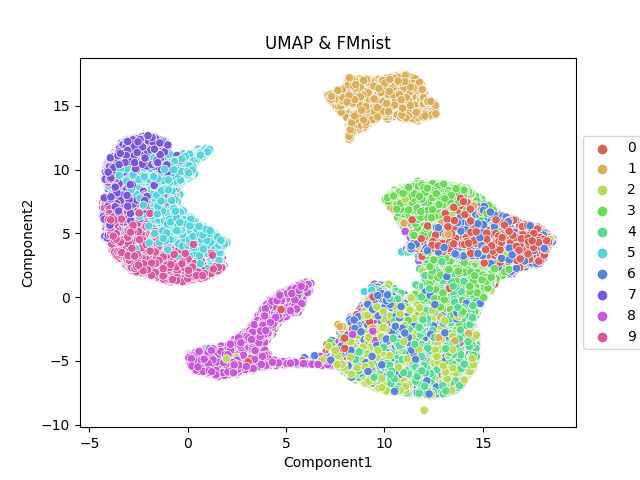
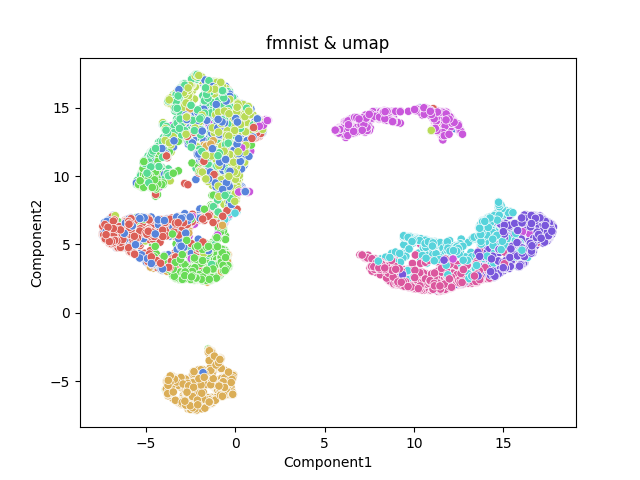
Add metric plots

diff --git a/project/algorithms/algorithms.py b/project/algorithms/algorithms.py
@@ -7,17 +7,18 @@ import trimap
 import umap
 import numpy as np
 from numpy.typing import ArrayLike
+from sklearn.manifold import LocallyLinearEmbedding
 
 pacmap_args = {
     'fmnist': {
         'n_components': 2,
-        'n_neighbors': 15,
+        'n_neighbors': 8,
         'MN_ratio': 1.5,
         'distance': 'euclidean',
         'random_state': 45
     }, "smallnorb": {
         'n_components': 2,
-        'n_neighbors': 24,
+        'n_neighbors': 12,
         'FP_ratio': 0.2,
         'MN_ratio': 3.0,
         'distance': 'angular',
@@ -38,9 +39,9 @@ trimap_args = {
         'distance': 'euclidean'
     }, "smallnorb": {
         'n_dims': 2,
-        'n_inliers': 20,
-        'n_outliers': 10,
-        'n_random': 10,
+        'n_inliers': 18,
+        'n_outliers': 6,
+        'n_random': 5,
         'distance': 'cosine'
     }, 'reuters': {
         'n_dims': 2,
@@ -51,13 +52,13 @@ trimap_args = {
 umap_args = {
     'fmnist': {
         'n_components': 2,
-        'n_neighbors': 15,
+        'n_neighbors': 8,
         'spread': 1.4,
         'metric': 'euclidean',
         'random_state': 45
     }, "smallnorb": {
         'n_components': 2,
-        'n_neighbors': 24,
+        'n_neighbors': 12,
         'spread': 0.5,
         'metric': 'cosine',
         'random_state': 45
@@ -70,13 +71,30 @@ umap_args = {
     },
 }
 
+lle_args = {
+    'fmnist': {
+        "eigen_solver": "auto",
+        'n_components': 2,
+        'n_neighbors': 8,
+        'random_state': 45
+    }, "smallnorb": {
+        'n_components': 2,
+        'n_neighbors': 12,
+        'random_state': 45
+    }, 'reuters': {
+        'n_components': 2,
+        'n_neighbors': 10,
+        'random_state': 45
+    },
+}
+
 
 def execute_pacmap(x: ArrayLike, y: ArrayLike, dataset_name: str):
     embedding = pacmap.PaCMAP(**pacmap_args.get(dataset_name))
     logging.info("PaCMAP has been launched.")
     x_transformed = embedding.fit_transform(x)
     logging.info("PaCMAP was completed.")
-    __show_result(x_transformed, y, "PaCMAP & " + dataset_name)
+    __show_result(x_transformed, y, dataset_name, 'pacmap')
     return x_transformed
 
 
@@ -85,7 +103,7 @@ def execute_trimap(x: ArrayLike, y: ArrayLike, dataset_name: str):
     logging.info("TRIMAP has been launched.")
     x_transformed = embedding.fit_transform(x)
     logging.info("TRIMAP was completed.")
-    __show_result(x_transformed, y, "TRIMAP & " + dataset_name)
+    __show_result(x_transformed, y, dataset_name, 'trimap')
     return x_transformed
 
 
@@ -94,11 +112,21 @@ def execute_umap(x: ArrayLike, y: ArrayLike, dataset_name: str):
     logging.info("UMAP has been launched.")
     x_transformed = embedding.fit_transform(x)
     logging.info("UMAP was completed.")
-    __show_result(x_transformed, y, "UMAP & " + dataset_name)
+    __show_result(x_transformed, y, dataset_name, 'umap')
     return x_transformed
 
 
-def __show_result(x_transformed: ArrayLike, y: ArrayLike, chart_title: str):
+def execute_lle(x: ArrayLike, y: ArrayLike, dataset_name: str):
+    embedding = LocallyLinearEmbedding(**lle_args.get(dataset_name))
+    logging.info("LLE has been launched.")
+    x_transformed = embedding.fit_transform(x)
+    logging.info("LLE was completed.")
+    __show_result(x_transformed, y, dataset_name, 'lle')
+    return x_transformed
+
+
+def __show_result(x_transformed: ArrayLike, y: ArrayLike, dataset: str, algo: str):
+    plt.figure().clear()
     df = pd.DataFrame()
     df["y"] = y
     df["Component1"] = x_transformed[:, 0]
@@ -106,10 +134,12 @@ def __show_result(x_transformed: ArrayLike, y: ArrayLike, chart_title: str):
     chart = sns.scatterplot(x="Component1",
                             y="Component2",
                             hue=y.tolist(),
-                            palette=sns.color_palette("hls", __number_of_categories(y)),
+                            palette=sns.color_palette("bright", __number_of_categories(y)),
                             data=df)
-    chart.legend(loc='center left', bbox_to_anchor=(1, 0.5))
-    chart.set(title=chart_title)
+    # chart.legend(loc='center left', bbox_to_anchor=(1, 0.5))
+    plt.legend([], [], frameon=False)
+    chart.set(title=dataset + ' & ' + algo)
+    plt.savefig('resources/plots/' + dataset + '/' + algo)
     plt.show()
 
 

diff --git a/project/executor.py b/project/executor.py
@@ -8,7 +8,9 @@ from project.metrics.metrics_visalizer import visualize_metric
 def set_up_logger():
     logging.basicConfig(format='%(asctime)s %(levelname)-8s %(message)s',
                         level=logging.INFO,
-                        datefmt='%Y-%m-%d %H:%M:%S')
+                        datefmt='%Y-%m-%d %H:%M:%S',
+                        filename='logsReuters.log',
+                        filemode='w')
 
 
 def run_algorithms(dataset_loader: Callable, dataset_name: str):
@@ -23,7 +25,8 @@ def run_algorithms(dataset_loader: Callable, dataset_name: str):
     embeddings = {
         'pacmap': execute_pacmap(x, y, dataset_name),
         'trimap': execute_trimap(x, y, dataset_name),
-        'umap': execute_umap(x, y, dataset_name)
+        'umap': execute_umap(x, y, dataset_name),
+        # 'lle': execute_lle(x, y, dataset_name)
     }
     logging.info("Processing was finished.")
 

diff --git a/project/data_loader/data_loader.py b/project/data_loader/data_loader.py
@@ -30,7 +30,7 @@ def load_fmnist() -> Tuple[DataFrame, DataFrame]:
 
 
 def load_reuters() -> Tuple[DataFrame, DataFrame]:
-    return __load_dataset(REUTERS, drop=8)
+    return __load_dataset(REUTERS)
 
 
 def load_smallnorb() -> Tuple[DataFrame, DataFrame]:
